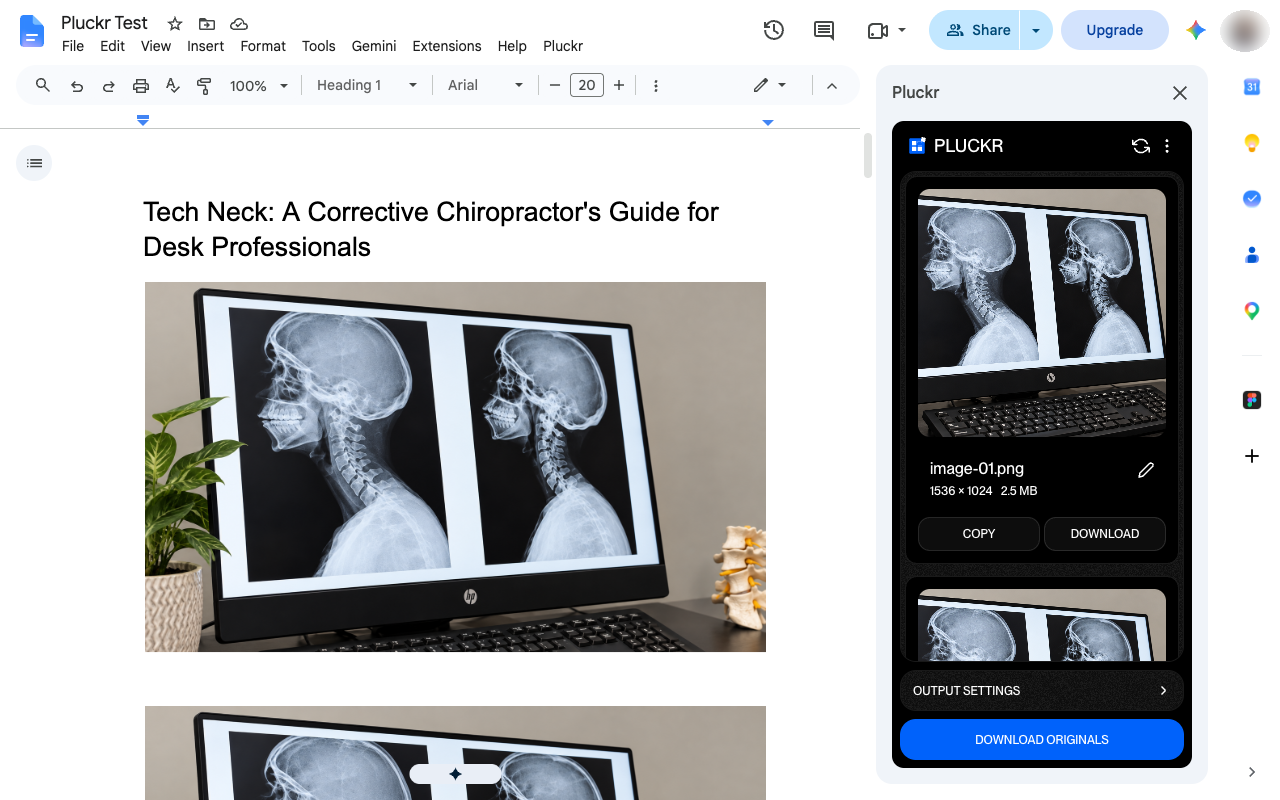
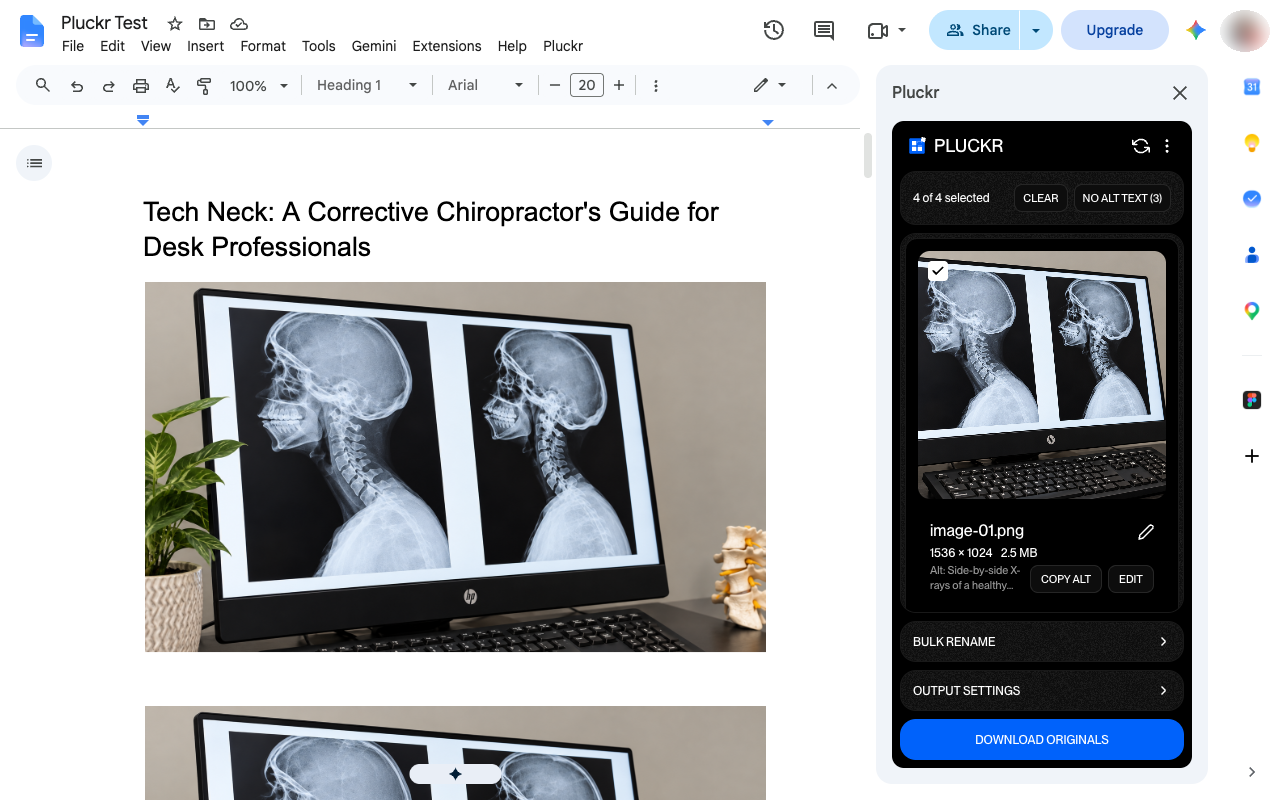
Release 2 prep: new Marketplace screenshots and listing, Slides OAuth text, homepage and SEO copy
- Screenshots script covers Docs and Slides; four new Docs shots (avatar blurred), raw shots git-ignored
- LISTING.md: new descriptions, config and screenshot list for Docs and Slides
- brand/oauth-slides-scope.md: justification text for presentations.currentonly
- Homepage: title, description, feature cards, FAQ and schema mention Slides, alt text, Markdown
- Extract page: Slides and alt text sections

Not deployed.

Changed region(s): [[0.6875, 0.2188, 0.9375, 0.625], [0.6875, 0.6562, 0.9375, 0.8438]]

diff --git a/pluckr.webflow/index.html b/pluckr.webflow/index.html
@@ -2,12 +2,12 @@
 <html data-wf-page="6a567b10e382ae0ed963a1b7" data-wf-site="6a567b0de382ae0ed963a110" lang="en">
 <head>
   <meta charset="utf-8">
-  <title>Extract and Convert Images from Google Docs | Pluckr</title>
-  <meta content="Pull every image out of a Google Doc, convert to WebP, AVIF, JPEG or PNG, and crop or resize. One-time $5. Images never leave your browser." name="description">
-  <meta content="Extract and Convert Images from Google Docs | Pluckr" property="og:title">
-  <meta content="Pull every image out of a Google Doc, convert to WebP, AVIF, JPEG or PNG, and crop or resize. One-time $5. Images never leave your browser." property="og:description">
-  <meta content="Extract and Convert Images from Google Docs | Pluckr" name="twitter:title">
-  <meta content="Pull every image out of a Google Doc, convert to WebP, AVIF, JPEG or PNG, and crop or resize. One-time $5. Images never leave your browser." name="twitter:description">
+  <title>Extract and Convert Images in Google Docs and Slides | Pluckr</title>
+  <meta content="Pull every image out of a Google Doc or Slides deck. Convert to WebP or AVIF, edit alt text, export Markdown. One-time $5, runs in your browser." name="description">
+  <meta content="Extract and Convert Images in Google Docs and Slides | Pluckr" property="og:title">
+  <meta content="Pull every image out of a Google Doc or Slides deck. Convert to WebP or AVIF, edit alt text, export Markdown. One-time $5, runs in your browser." property="og:description">
+  <meta content="Extract and Convert Images in Google Docs and Slides | Pluckr" name="twitter:title">
+  <meta content="Pull every image out of a Google Doc or Slides deck. Convert to WebP or AVIF, edit alt text, export Markdown. One-time $5, runs in your browser." name="twitter:description">
   <meta property="og:type" content="website">
   <meta content="summary_large_image" name="twitter:card">
   <meta content="width=device-width, initial-scale=1" name="viewport">
@@ -156,7 +156,7 @@
   <meta property="og:image:height" content="630">
   <meta property="og:image:alt" content="Pluckr sidebar listing the images in a Google Doc, with the headline Extract and convert Google Docs images">
   <meta name="twitter:image" content="https://docpluckr.com/images/og-image.png">
-  <script type="application/ld+json">[{"@context": "https://schema.org", "@type": "SoftwareApplication", "name": "Pluckr", "applicationCategory": "BrowserApplication", "operatingSystem": "Web (Google Docs add-on)", "description": "Pull every image out of a Google Doc, convert to WebP, AVIF, JPEG or PNG, and crop or resize. One-time $5. Images never leave your browser.", "url": "https://docpluckr.com/", "image": "https://docpluckr.com/images/og-image.png", "offers": {"@type": "Offer", "price": "5.00", "priceCurrency": "USD"}}, {"@context": "https://schema.org", "@type": "FAQPage", "mainEntity": [{"@type": "Question", "name": "Are my images uploaded anywhere?", "acceptedAnswer": {"@type": "Answer", "text": "Pluckr does not send images to a separate Pluckr server. Google Apps Script reads images from the current document and prepares original-image ZIP downloads; image conversion runs locally in your browser."}}, {"@type": "Question", "name": "Do I need a Google account?", "acceptedAnswer": {"@type": "Answer", "text": "Yes. Pluckr runs as a Google Docs add-on and asks for access to the current document so it can read and export its images."}}, {"@type": "Question", "name": "What image formats are supported?", "acceptedAnswer": {"@type": "Answer", "text": "Pluckr can convert images to AVIF, WebP, JPEG, or PNG. Choose one output format at a time; quality controls are available for lossy formats."}}, {"@type": "Question", "name": "Why are some images missing when I scan?", "acceptedAnswer": {"@type": "Answer", "text": "Pluckr extracts embedded inline images in the document body, including those in tables and nested document tabs. It does not currently extract floating images or images in headers, footers, or footnotes."}}, {"@type": "Question", "name": "Does it support GIFs or BMPs?", "acceptedAnswer": {"@type": "Answer", "text": "Pluckr can extract these as originals when they are embedded inline. Converting a format depends on whether your browser can decode the image and supports the selected output format."}}]}]</script>
+  <script type="application/ld+json">[{"@context": "https://schema.org", "@type": "SoftwareApplication", "name": "Pluckr", "applicationCategory": "BrowserApplication", "operatingSystem": "Web (Google Docs and Google Slides add-on)", "description": "Pull every image out of a Google Doc or Slides deck. Convert to WebP or AVIF, edit alt text, export Markdown. One-time $5, runs in your browser.", "url": "https://docpluckr.com/", "image": "https://docpluckr.com/images/og-image.png", "offers": {"@type": "Offer", "price": "5.00", "priceCurrency": "USD"}}, {"@context": "https://schema.org", "@type": "FAQPage", "mainEntity": [{"@type": "Question", "name": "Are my images uploaded anywhere?", "acceptedAnswer": {"@type": "Answer", "text": "Pluckr does not send images to a separate Pluckr server. Google Apps Script reads images from the current document and prepares original-image ZIP downloads; image conversion runs locally in your browser."}}, {"@type": "Question", "name": "Do I need a Google account?", "acceptedAnswer": {"@type": "Answer", "text": "Yes. Pluckr runs as a Google Docs and Google Slides add-on and asks for access to the current file so it can read and export its images."}}, {"@type": "Question", "name": "What image formats are supported?", "acceptedAnswer": {"@type": "Answer", "text": "Pluckr can convert images to AVIF, WebP, JPEG, or PNG. Choose one output format at a time; quality controls are available for lossy formats."}}, {"@type": "Question", "name": "Why are some images missing when I scan?", "acceptedAnswer": {"@type": "Answer", "text": "Pluckr extracts embedded inline images in the document body, including those in tables and nested document tabs. In Slides it finds pictures on slides, including grouped ones, but not images used as shape fills or backgrounds. It does not currently extract floating images or images in headers, footers, or footnotes in Docs."}}, {"@type": "Question", "name": "Does it support GIFs or BMPs?", "acceptedAnswer": {"@type": "Answer", "text": "Pluckr can extract these as originals when they are embedded inline. Converting a format depends on whether your browser can decode the image and supports the selected output format."}}, {"@type": "Question", "name": "Does Pluckr change my file?", "acceptedAnswer": {"@type": "Answer", "text": "Only when you ask. Reading, converting and downloading never touch your file. Saving alt text, or confirming Optimize, writes to the open Doc or deck, so make a copy first; version history can undo it."}}]}]</script>
 </head>
 <body>
   <div class="page_wrap">
@@ -718,7 +718,7 @@ html.wf-design-mode .guide_wrap {
                       <div class="card_primary_header">
                         <h3 class="card_primary_title u-text-style-h5">Grab every image</h3>
                         <div class="card_primary_text u-text-style-small w-richtext">
-                          <p>Extracts embedded inline images from the document body, including images in tables and nested document tabs.</p>
+                          <p>Lists every image in your Doc, including images in tables and nested tabs, or every picture on your Slides deck, including grouped ones.</p>
                         </div>
                       </div>
                     </div>
@@ -788,7 +788,7 @@ html.wf-design-mode .guide_wrap {
                       <div class="card_primary_header">
                         <h3 class="card_primary_title u-text-style-h5">Pick &amp; bundle</h3>
                         <div class="card_primary_text u-text-style-small w-richtext">
-                          <p>See each image’s preview, dimensions, and file size. Rename files, copy or download one, or export the set as a ZIP.</p>
+                          <p>See each image’s preview, dimensions, and file size. Tick the ones you want, rename them in bulk, then copy, download, or export a ZIP.</p>
                         </div>
                       </div>
                     </div>
@@ -809,7 +809,7 @@ html.wf-design-mode .guide_wrap {
                       <div class="card_primary_header">
                         <h3 class="card_primary_title u-text-style-h5">Private by design</h3>
                         <div class="card_primary_text u-text-style-small w-richtext">
-                          <p>Pluckr has no separate image server. Google Apps Script reads images from the open Doc; conversions run in your browser.</p>
+                          <p>Pluckr has no separate image server. Google Apps Script reads images from the open Doc or deck; conversions run in your browser.</p>
                         </div>
                       </div>
                     </div>
@@ -827,9 +827,9 @@ html.wf-design-mode .guide_wrap {
                           </svg></div>
                       </div>
                       <div class="card_primary_header">
-                        <h3 class="card_primary_title u-text-style-h5">Fast &amp; cancelable</h3>
+                        <h3 class="card_primary_title u-text-style-h5">Alt text &amp; Markdown</h3>
                         <div class="card_primary_text u-text-style-small w-richtext">
-                          <p>Large-image drawing and pixel reads run off the page’s main thread to keep the sidebar responsive during conversion.</p>
+                          <p>See which images have no alt text and write it in the sidebar. In Docs, export the text as Markdown with an images folder.</p>
                         </div>
                       </div>
                     </div>
@@ -863,7 +863,7 @@ html.wf-design-mode .guide_wrap {
                         </svg></div>
                     </div>
                   </div>
-                  <h3 data-wf--typography-plain--variant="inherit" data-number="-1" class="u-text"><span>Open Pluckr in Docs</span></h3>
+                  <h3 data-wf--typography-plain--variant="inherit" data-number="-1" class="u-text"><span>Open Pluckr in Docs or Slides</span></h3>
                   <p data-wf--typography-plain--variant="inherit" data-number="60" class="u-text"><span>In a Google Doc, choose Extensions → Pluckr → Extract images. The Pluckr sidebar opens beside your document.</span></p>
                 </div>
               </div>
@@ -992,7 +992,7 @@ html.wf-design-mode .guide_wrap {
                   <div class="accordion_content_wrap">
                     <div class="accordion_content_padding">
                       <div class="accordion_content_text u-rich-text w-richtext">
-                        <p>Yes. Pluckr runs as a Google Docs add-on and asks for access to the current document so it can read and export its images.</p>
+                        <p>Yes. Pluckr runs as a Google Docs and Google Slides add-on and asks for access to the current file so it can read and export its images.</p>
                       </div>
                     </div>
                   </div>
@@ -1022,7 +1022,7 @@ html.wf-design-mode .guide_wrap {
                   <div class="accordion_content_wrap">
                     <div class="accordion_content_padding">
                       <div class="accordion_content_text u-rich-text w-richtext">
-                        <p>Pluckr extracts embedded inline images in the document body, including those in tables and nested document tabs. It does not currently extract floating images or images in headers, footers, or footnotes.</p>
+                        <p>Pluckr extracts embedded inline images in the document body, including those in tables and nested document tabs. In Slides it finds pictures on slides, including grouped ones, but not images used as shape fills or backgrounds. It does not currently extract floating images or images in headers, footers, or footnotes in Docs.</p>
                       </div>
                     </div>
                   </div>
@@ -1038,6 +1038,21 @@ html.wf-design-mode .guide_wrap {
                     <div class="accordion_content_padding">
                       <div class="accordion_content_text u-rich-text w-richtext">
                         <p>Pluckr can extract these as originals when they are embedded inline. Converting a format depends on whether your browser can decode the image and supports the selected output format.</p>
+                      </div>
+                    </div>
+                  </div>
+                </div>
+              </div>
+              <div role="listitem" data-state=" " class="accordion_item">
+                <div class="accordion_component">
+                  <h3 class="accordion_toggle_heading"><button aria-expanded="false" class="accordion_toggle_button"><span class="accordion_toggle_text u-text-style-h5">Does Pluckr change my file?</span><span class="accordion_toggle_icon">
+                        <div class="accordion_toggle_icon_line is-v"></div>
+                        <div class="accordion_toggle_icon_line"></div>
+                      </span></button></h3>
+                  <div class="accordion_content_wrap">
+                    <div class="accordion_content_padding">
+                      <div class="accordion_content_text u-rich-text w-richtext">
+                        <p>Only when you ask. Reading, converting and downloading never touch your file. Saving alt text, or confirming Optimize, writes to the open Doc or deck, so make a copy first; version history can undo it.</p>
                       </div>
                     </div>
                   </div>

diff --git a/pluckr.webflow/extract-images-from-google-docs.html b/pluckr.webflow/extract-images-from-google-docs.html
@@ -26,7 +26,7 @@
   <meta property="og:url" content="https://docpluckr.com/extract-images-from-google-docs">
   <meta property="og:image" content="https://docpluckr.com/images/og-image.png">
   <meta name="twitter:image" content="https://docpluckr.com/images/og-image.png">
-  <script type="application/ld+json">{"@context":"https://schema.org","@type":"FAQPage","mainEntity":[{"@type":"Question","name":"Does Pluckr change my Google Doc?","acceptedAnswer":{"@type":"Answer","text":"No. It reads the images and shows them in the sidebar. Your document stays as it is."}},{"@type":"Question","name":"Does it find images inside tables?","acceptedAnswer":{"@type":"Answer","text":"Yes. Images in tables and in other document tabs are listed with the rest."}},{"@type":"Question","name":"Do I have to publish the Doc?","acceptedAnswer":{"@type":"Answer","text":"No. Pluckr works on the Doc you have open. There is nothing to publish or share."}},{"@type":"Question","name":"Are the downloaded images the same quality as in the Doc?","acceptedAnswer":{"@type":"Answer","text":"Yes. Download originals gives you the stored images without recompressing them. Quality only changes if you choose to convert."}},{"@type":"Question","name":"Can I extract images from a Doc someone shared with me?","acceptedAnswer":{"@type":"Answer","text":"You need to be able to open the Doc and use add-ons in it. Pluckr reads the Doc you have open, so access follows your permissions in Google Docs."}},{"@type":"Question","name":"What file names do I get?","acceptedAnswer":{"@type":"Answer","text":"image-01, image-02 and so on, in document order. You can rename any of them before you download."}}]}</script>
+  <script type="application/ld+json">{"@context":"https://schema.org","@type":"FAQPage","mainEntity":[{"@type":"Question","name":"Does Pluckr change my Google Doc?","acceptedAnswer":{"@type":"Answer","text":"No. It reads the images and shows them in the sidebar. Your document stays as it is."}},{"@type":"Question","name":"Does it find images inside tables?","acceptedAnswer":{"@type":"Answer","text":"Yes. Images in tables and in other document tabs are listed with the rest."}},{"@type":"Question","name":"Do I have to publish the Doc?","acceptedAnswer":{"@type":"Answer","text":"No. Pluckr works on the Doc you have open. There is nothing to publish or share."}},{"@type":"Question","name":"Are the downloaded images the same quality as in the Doc?","acceptedAnswer":{"@type":"Answer","text":"Yes. Download originals gives you the stored images without recompressing them. Quality only changes if you choose to convert."}},{"@type":"Question","name":"Can I extract images from a Doc someone shared with me?","acceptedAnswer":{"@type":"Answer","text":"You need to be able to open the Doc and use add-ons in it. Pluckr reads the Doc you have open, so access follows your permissions in Google Docs."}},{"@type":"Question","name":"Does it work in Google Slides?","acceptedAnswer":{"@type":"Answer","text":"Yes. Open Pluckr from a Slides deck to list, rename, convert and download its pictures. Markdown export is only for Docs."}},{"@type":"Question","name":"What file names do I get?","acceptedAnswer":{"@type":"Answer","text":"image-01, image-02 and so on, in document order. You can rename any of them before you download."}}]}</script>
   <style>
     .u-rich-text figure.shot { max-width: 100%; margin: 40px 0; }
     .u-rich-text figure.shot img { display: block; width: 100%; height: auto; border-radius: 12px; border: 1px solid rgba(255, 255, 255, 0.10); }
@@ -680,6 +680,10 @@ document.addEventListener("DOMContentLoaded", function () {
   <li>Unlock Pluckr if you have not already. It is a one-time $5 purchase, and the unlock screen explains the terms before you pay.</li>
   <li>Scroll through the list. Rename, copy or download single images, or press <strong>Download originals</strong> to get all of them in one ZIP named after the Doc.</li>
 </ol>
+<h2>Google Slides too</h2>
+<p>Open the same sidebar in a Slides deck and Pluckr lists the pictures on every slide, including ones inside groups, named by slide: slide-01-image-01, slide-01-image-02 and so on. Select, rename, convert and download work the same way, and one purchase covers Docs and Slides. Images used as shape fills or slide backgrounds are not listed.</p>
+<h2>Alt text</h2>
+<p>Pluckr shows each image’s alt text and tells you how many images have none. Filter to the ones with no alt text, write a description in the sidebar and save it back to the file, or add alt text files (CSV and JSON) to your download so it travels with the images.</p>
 <h2>Images in tables and other tabs</h2>
 <p>Images placed inside table cells are listed with the rest, and so are images on other document tabs. You do not have to open each tab and scan it separately.</p>
 <h2>After you edit the Doc</h2>
@@ -703,6 +707,7 @@ document.addEventListener("DOMContentLoaded", function () {
 <p><strong>Do I have to publish the Doc?</strong><br>No. Pluckr works on the Doc you have open. There is nothing to publish or share.</p>
 <p><strong>Are the downloaded images the same quality as in the Doc?</strong><br>Yes. Download originals gives you the stored images without recompressing them. Quality only changes if you choose to convert.</p>
 <p><strong>Can I extract images from a Doc someone shared with me?</strong><br>You need to be able to open the Doc and use add-ons in it. Pluckr reads the Doc you have open, so access follows your permissions in Google Docs.</p>
+<p><strong>Does it work in Google Slides?</strong><br>Yes. Open Pluckr from a Slides deck to list, rename, convert and download its pictures. Markdown export is only for Docs.</p>
 <p><strong>What file names do I get?</strong><br>image-01, image-02 and so on, in document order. You can rename any of them before you download.</p>
           </div>
         </div>

diff --git a/brand/marketplace/LISTING.md b/brand/marketplace/LISTING.md
@@ -9,32 +9,38 @@ Everything to paste into Marketplace SDK > Store Listing. Limits from Google's d
 - Category: Productivity
 - Pricing model: Paid (one-time purchase)
 
-### Short description (max 200; this one is 148)
+### Short description (max 200; this one is 156)
 
-Preview, rename, copy and download every inline image in your Google Doc. Convert to AVIF, WebP, JPEG or PNG and resize before export.
+Preview, rename, convert and download every image in your Google Doc or Slides deck. Edit alt text, export Markdown with images, and shrink images in place.
 
 ### Detailed description (max 16,000)
 
-Pluckr pulls the images out of a Google Doc without the "publish to web" and "download as HTML" detour.
+Pluckr pulls the images out of a Google Doc or a Google Slides deck without the "publish to web" and "download as HTML" detour.
 
-Open Pluckr from Extensions > Pluckr and the sidebar lists every inline image in the Doc, including images in tables and in every document tab.
+Open Pluckr from Extensions > Pluckr and the sidebar lists every image: in Docs, every inline image, including images in tables and in every document tab; in Slides, every picture on every slide, including grouped ones.
 
 What you can do
 - Preview each image with its real pixel size and file size.
-- Rename images and download them one by one, or as a single ZIP of originals.
+- Tick the images you want. Downloads, conversion, renaming and optimizing apply to the ticked ones.
+- Rename images one by one, or all at once with a pattern such as {doc}-{n}, with a live preview.
+- Download images one by one, or as a single ZIP of originals.
 - Copy an image straight to your clipboard.
 - Convert to AVIF, WebP, JPEG or PNG, set the quality, crop to a fixed aspect ratio (1:1, 4:3, 3:2, 16:9 and more) and cap the width. Images are never enlarged.
+- See which images have no alt text, write alt text in the sidebar, and copy it. Save it back to the file when you choose, or export it with the images as CSV and JSON.
+- Docs: export the document as Markdown with its images in an images folder, ready for a blog, a static site or Obsidian.
+- Optimize file images: shrink the images inside the Doc or deck so it opens and scrolls faster. Pictures keep their size on the page, their alt text and their links.
 - Light and dark themes. Pluckr follows your system setting until you choose one.
 
 Private by design
-- Conversion happens in your browser. Your document images are never sent to Pluckr's servers or to anyone except Google.
-- Pluckr asks only for access to the current document and to show its sidebar. It never edits your Doc.
-- To check your licence, Pluckr reads your Google account email address and sends an identity token to its licence service. Nothing from your document is included.
+- Conversion happens in your browser. Your images and text are never sent to Pluckr's servers or to anyone except Google.
+- Pluckr asks only for access to the current file and to show its sidebar.
+- Pluckr changes your file only when you press Save to Doc, Save to deck, or confirm Optimize, and it tells you to make a copy first.
+- To check your licence, Pluckr reads your Google account email address and sends an identity token to its licence service. Nothing from your file is included.
 
 Pricing
-Pluckr is a one-time purchase of $5 USD for one Google account, paid through Polar (polar.sh). There is no subscription. Open Pluckr in a Doc and choose "Buy Pluckr" in the sidebar. Refunds within 14 days: support@docpluckr.com.
+Pluckr is a one-time purchase of $5 USD for one Google account, for Docs and Slides, paid through Polar (polar.sh). There is no subscription. Open Pluckr and choose "Buy Pluckr" in the sidebar. Refunds within 14 days: support@docpluckr.com.
 
-Not supported yet: floating images and images in headers, footers or footnotes.
+Not supported yet: floating images and images in headers, footers or footnotes in Docs; images used as shape fills, backgrounds, or on layouts and masters in Slides; Sheets.
 
 ## Graphic assets (in this folder)
 
@@ -52,14 +58,18 @@ Not supported yet: floating images and images in headers, footers or footnotes.
 
 - Visibility: Public (cannot be changed after publishing)
 - Installation: Individual and admin install
-- Integration: Docs add-on, Apps Script deployment ID: `AKfycbxcfNun4c4REi2wgEVmS9Ky0eYZg5O_ewg1aXIuoUfKSjGCVQLwfvxhDGzYJii2zSCAiw` (versioned deployment @1, "Marketplace 1.0")
-- OAuth scopes (must match the manifest): documents.currentonly, script.container.ui, openid, userinfo.email
+- Integration: Docs add-on and (version 2) Slides add-on, both on the same script. Apps Script deployment ID: `AKfycbxcfNun4c4REi2wgEVmS9Ky0eYZg5O_ewg1aXIuoUfKSjGCVQLwfvxhDGzYJii2zSCAiw` (versioned deployment @1, "Marketplace 1.0"). Version 2 needs a new numbered deployment.
+- OAuth scopes (must match the manifest): documents.currentonly, presentations.currentonly (new in version 2), script.container.ui, openid, userinfo.email
 - Developer info: name, website https://docpluckr.com, email support@docpluckr.com
 
-## SCREENSHOTS to take (real, in a Doc with 3 or 4 good photos)
+## SCREENSHOTS (version 2)
 
-1. Sidebar open next to the Doc, image list visible (dark).
-2. Output settings open: WebP, quality, 16:9 crop.
-3. After converting: file sizes shown ("2.5 MB -> 109.9 KB") and the Download button.
-4. Light theme.
-Use a window of 1280x800, browser zoom 100%, and crop the browser chrome so the shot is Docs only.
+Made by `node scripts/marketplace-screenshots.mjs docs` (raw shots in `brand/marketplace/shots/`), then `python3 scripts/marketplace-shots.py <files in order>` and `python3 scripts/blur-avatar.py`.
+
+1. Docs: the sidebar with the selection bar, a ticked image and its alt text (dark).
+2. Slides: the sidebar next to a deck (take it by hand: `marketplace-shots.py` normalises it to 1280x800).
+3. Docs: Bulk rename open with the live preview.
+4. Docs: Output settings with WebP, 16:9, and the alt text and Markdown options ticked.
+5. Docs: light theme.
+
+Use a window of 1280x800, browser zoom 100%.

diff --git a/brand/oauth-slides-scope.md b/brand/oauth-slides-scope.md
@@ -1,0 +1,21 @@
+# OAuth: adding presentations.currentonly (Slides support, version 2)
+
+Do this only after the current Marketplace review is approved. Console path: Google Auth Platform > Data Access > Add or remove scopes, then Verification Center.
+
+New scope: `https://www.googleapis.com/auth/presentations.currentonly`. It limits access to the one presentation where the add-on is opened. It is the narrower of the two scopes Apps Script accepts for these calls (the other is `presentations`).
+
+## How will the scope be used? (under 1000 characters)
+
+Pluckr lists the pictures on the slides of the open presentation so the user can preview, rename, convert and download them, and, only when the user confirms, edit a picture's alt text or replace a picture with a smaller copy of itself. presentations.currentonly is the narrowest scope that lets Apps Script read slides and their pictures (SlidesApp.getActivePresentation), and it limits access to the single presentation in which the user opened the add-on. It cannot reach other files. Picture data is read by Google Apps Script and handled in the user's browser. Nothing from the presentation is sent to Pluckr's servers or to any third party. Use of Google user data follows the Google API Services User Data Policy, including the Limited Use requirements.
+
+## Also change
+
+- Marketplace SDK > App Configuration: add the Slides add-on, same script, version 2. Add the scope to the scope list.
+- Store listing: the new description, screenshots and short description are in `brand/marketplace/LISTING.md`.
+- Privacy policy and terms: already updated on branch `release/v2` (Slides, alt text edits, optimize, Markdown).
+- Reviewer account `pluckr.tester@gmail.com` keeps its licence. Give the reviewer a short test deck link and say that Slides is under Extensions > Pluckr.
+- Demo video (if asked): Docs and Slides, showing the consent screen with the new scope, the sidebar, a download, and Optimize on a copy.
+
+## Existing users
+
+They see one new consent prompt the next time they open Pluckr after version 2 goes live. Say so in the release notes.
